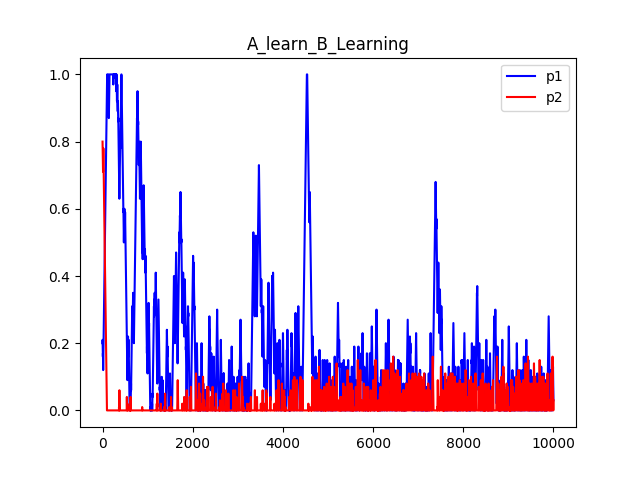
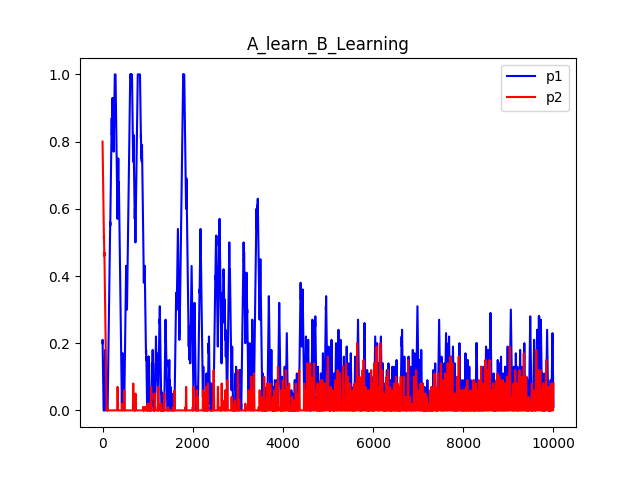
PHC

Changed region(s): [[0.1562, 0.1562, 0.875, 0.875]]

diff --git a/PHC/main.py b/PHC/main.py
@@ -42,11 +42,9 @@ class Player:
 
     def learning_rate(self):
         return 1/(10+0.00001*self.turns)
-        # return 0.1
 
     def epsilon(self):
         return 0.5/(1+0.0001*self.turns)
-        # return 0.5
 
     def get_strategy(self, i):
         return self.strategy[i]
@@ -136,8 +134,14 @@ def ALearningBFix2():
     phc = PHC('A_learn_B_fix2', p1, p2, 300)
     phc.run()
 
+def ALearningBFix3():
+    p1 = Player(q=[0.0, 0.0], strategy=[0.8, 0.2], learn=True)
+    p2 = Player(q=[0.0, 0.0], strategy=[0.5, 0.5], learn=False)
+    phc = PHC('A_learn_B_fix3', p1, p2, 10000)
+    phc.run()
 
 if __name__ == "__main__":
     ALearningBLearning()
     ALearningBFix()
     ALearningBFix2()
+    ALearningBFix3()

diff --git a/WoLF-PHC/main.py b/WoLF-PHC/main.py
@@ -1,0 +1,4 @@
+# -*- coding:utf-8 -*-
+
+from matplotlib import pyplot as ply
+import numpy as np
